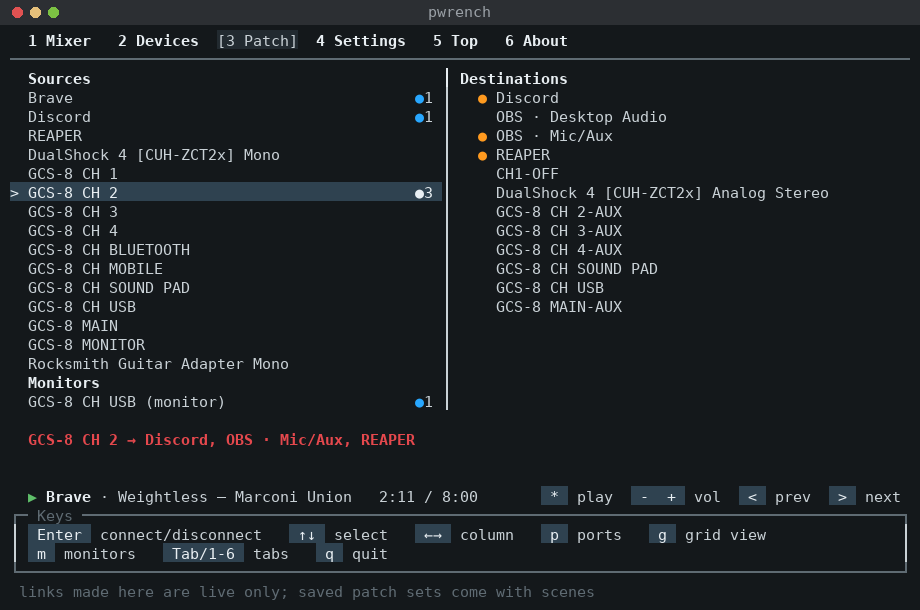
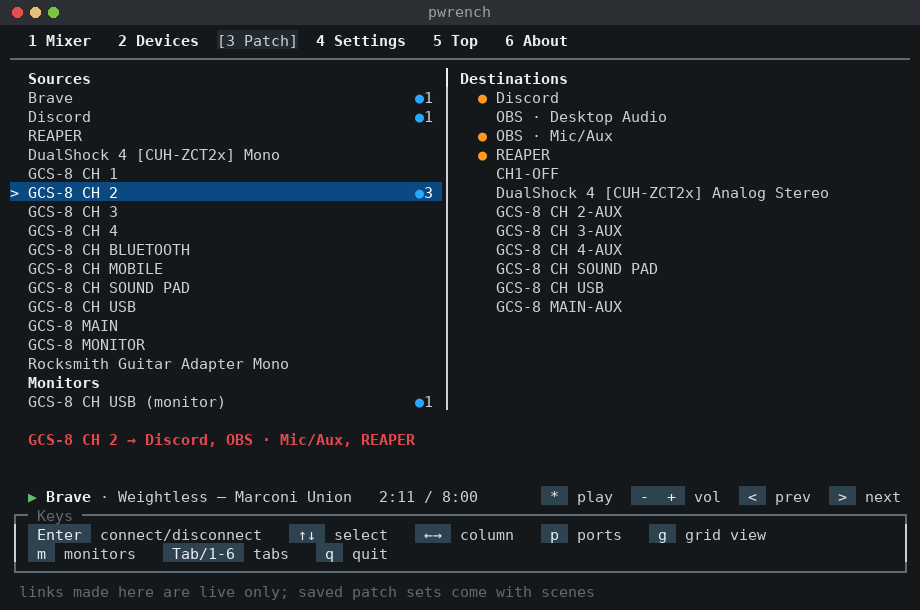
pipeOS: blue bar on sources, orange on destinations; dots keep their colour under a bar; Mixer headings blue/orange

Changed region(s): [[0.0, 0.2803, 0.487, 0.3426]]

diff --git a/pwcore.py b/pwcore.py
@@ -79,7 +79,10 @@ THEMES = {
                      "bar_ok": ("#ffffff", "#6c7a84", ""), "bar_alert": ("#ffffff", "#d62828", ""),
                      "bar_dim": ("#8a9399", "#e1e5e8", ""),
                      "src": ("#0a84ff", None, "bold"), "dst": ("#ff7a00", None, "bold"),
-                     "dst_partial": ("#ff7a00", None, "")},
+                     "dst_partial": ("#ff7a00", None, ""),
+                     "bar_src": ("#0b2540", "#bcdcff", ""), "anchor_src": ("#2b2f33", "#e3efff", ""),
+                     "bar_dst": ("#3a1f00", "#ffd9b3", ""), "anchor_dst": ("#2b2f33", "#fff0e0", ""),
+                     "head_play": ("#0a84ff", None, "bold"), "head_rec": ("#ff7a00", None, "bold")},
     # Dark: Portal 2's moody chambers, dark panels with the portals glowing.
     "pipeos-dark": {"screen": ("#c9d1d6", "#14181b", ""),
                     "normal": (None, None, ""), "dim": ("#5f6b73", None, ""),
@@ -91,7 +94,10 @@ THEMES = {
                     "bar_ok": ("#e8eef2", "#3d5566", ""), "bar_alert": ("#ffffff", "#b3261e", ""),
                     "bar_dim": ("#5f6b73", "#1d2327", ""),
                     "src": ("#28a7ff", None, "bold"), "dst": ("#ff9a1f", None, "bold"),
-                    "dst_partial": ("#ff9a1f", None, "")},
+                    "dst_partial": ("#ff9a1f", None, ""),
+                    "bar_src": ("#ffffff", "#0b4a80", ""), "anchor_src": ("#c9d1d6", "#16283a", ""),
+                    "bar_dst": ("#ffffff", "#7a3d00", ""), "anchor_dst": ("#c9d1d6", "#3a2410", ""),
+                    "head_play": ("#28a7ff", None, "bold"), "head_rec": ("#ff9a1f", None, "bold")},
 }
 
 
@@ -116,10 +122,22 @@ THEMES = {**{k: v for k, v in THEMES.items() if k not in ("vaporware", "pipecraf
           **{name: _pipe_boy(*colours) for name, colours in _PIPE_BOYS.items()},
           "vaporware": THEMES["vaporware"], "pipecraft": THEMES["pipecraft"],
           "pipeos-lite": THEMES["pipeos-lite"], "pipeos-dark": THEMES["pipeos-dark"]}
-for _t in THEMES.values():  # Patch's dots: the theme's ok and pending, unless it sets its own (Portal)
+for _t in THEMES.values():
+    # Patch's dots and bars, and the Mixer's section headings: pipeOS sets its own (portal blue and orange);
+    # every other theme reuses ok/pending, selected/anchor and title, so it looks as it did.
+    _own = "src" in _t
     _t.setdefault("src", _t["ok"])
     _t.setdefault("dst", _t["ok"])
     _t.setdefault("dst_partial", _t["pending"])
+    for _bar, _base in (("bar_src", "selected"), ("bar_dst", "selected"), ("anchor_src", "anchor"),
+                        ("anchor_dst", "anchor")):
+        _t.setdefault(_bar, _t[_base])
+    for _dot, _bar in (("src", "bar_src"), ("src", "anchor_src"), ("dst", "bar_dst"), ("dst", "anchor_dst"),
+                       ("dst_partial", "bar_dst"), ("dst_partial", "anchor_dst")):
+        # a dot under a bar keeps its colour on the bar's background (pipeOS); elsewhere the bar covers it
+        _t[f"{_dot}@{_bar}"] = (_t[_dot][0], _t[_bar][1], _t[_dot][2]) if _own else _t[_bar]
+    _t.setdefault("head_play", _t["title"])
+    _t.setdefault("head_rec", _t["title"])
 THEME_NAMES = list(THEMES)
 THEME_LABELS = {"pipeboy": "Pipe Boy", "pipeboy-amber": "Pipe Boy Amber", "pipeboy-cyan": "Pipe Boy Cyan",
                 "pipeboy-white": "Pipe Boy White", "vaporware": "Vaporware", "pipecraft": "Pipecraft",
@@ -1590,7 +1608,7 @@ def _render_mixer(cv, st, mx, body_h):
     out, n_sel = [], 0
     for kind, section, row in _mixer_lines(mx):
         if kind == "head":
-            out.append((f"  {section}", "title", None))
+            out.append((f"  {section}", "head_play" if section == "Playback" else "head_rec", None))
             continue
         if kind == "sub":
             out.append((f"    {section}", "dim", None))
@@ -1837,7 +1855,7 @@ def _render_patch_cols(cv, st, g, srcs, s, room):
         mark = "> " if j == st.patch_dst and on_dst else "  "
         state = g.state(s, g.dests[j])
         rt = f"{mark}{_STATE_MARK[state].replace('·', ' ')} {_fit(g.dests[j].label, half - 4)}"
-        lit = ("anchor" if menu else "selected") if j == st.patch_dst and on_dst else None
+        lit = ("anchor_dst" if menu else "bar_dst") if j == st.patch_dst and on_dst else None
         right.append((rt, lit, ("patch_dst", j), {"full": "dst", "partial": "dst_partial"}.get(state)))
         if j == st.patch_dst:
             right += menu
@@ -1850,15 +1868,16 @@ def _render_patch_cols(cv, st, g, srcs, s, room):
             count = len(g.targets(srcs[i]))
             mark = "> " if i == st.patch_src and not on_dst else "* " if i == st.patch_src else "  "
             lt = f"{mark}{_fit(srcs[i].label, half - 7):<{half - 7}} {('●' + str(count)) if count else '':>3}"
-            if count:  # the source's dot: blue in Portal; dots go first so a cursor bar still covers them
-                spans.append((lt.index("●"), lt.index("●") + 1, "src"))
-            if i == st.patch_src:  # each bar covers only its own column; the source's stays as the anchor
-                spans.append((0, half, "anchor" if on_dst else "selected"))
+            bar = ("anchor_src" if on_dst else "bar_src") if i == st.patch_src else None
+            if bar:  # each bar covers only its own column; the source's stays as the anchor
+                spans.append((0, half, bar))
+            if count:  # the source's dot, drawn over its bar (src@bar_src) so it keeps its colour
+                spans.append((lt.index("●"), lt.index("●") + 1, f"src@{bar}" if bar else "src"))
         rt, lit, target, dot = (right[n] + (None,))[:4] if n < len(right) else ("", None, None, None)
-        if dot:
-            spans.append((half + 2 + 2, half + 2 + 3, dot))
         if lit:
             spans.append((half + 2, cv.width if target[0] == "patch_dst" else half + 2 + len(rt), lit))
+        if dot:
+            spans.append((half + 2 + 2, half + 2 + 3, f"{dot}@{lit}" if lit in ("bar_dst", "anchor_dst") else dot))
         row = cv.add(f"{lt:<{half}}│ {rt}".ljust(cv.width), ("normal", spans))
         if n < len(left) and left[n] != "head":
             cv.hit(row, 0, half, ("patch_src", left[n]))

diff --git a/tests/test_portal.py b/tests/test_portal.py
@@ -61,10 +61,10 @@ def test_portal_light_is_light_and_portal_dark_is_dark():
 def test_patch_dots_use_source_and_destination_roles():
     lines = patch_lines(patch_side="dst")  # cursor on the destinations, so the source row isn't the active bar
     text, style = next((t, s) for t, s in lines if t.lstrip("> *").startswith("Discord") and "│" in t)
-    assert role_at(style, text.index("●")) in ("src", "anchor")
+    assert role_at(style, text.index("●")) == "src@anchor_src"
     dst_text, dst_style = next((t, s) for t, s in lines if "GCS-8 CH 4-AUX" in t and "│" in t)
     col = dst_text.index("●", dst_text.index("│"))
-    assert role_at(dst_style, col) in ("dst", "selected")
+    assert role_at(dst_style, col) in ("dst", "dst@bar_dst")
     # a destination row that isn't under the cursor shows the dst role itself
     dots = [(t, s) for t, s in lines if "│" in t and "●" in t.split("│")[1]]
     assert any(role_at(s, t.index("●", t.index("│"))) == "dst" for t, s in dots) or len(dots) == 1
@@ -76,11 +76,57 @@ def test_source_dot_is_src_off_the_cursor():
     assert linked and all(role_at(s, t.index("●")) == "src" for t, s in linked)
 
 
-def test_cursor_bar_still_wins_over_a_dot():
+def test_dot_under_a_bar_keeps_its_colour():
+    # Skrappjaw: the dots were white when highlighted; they keep blue/orange on the bar's background
     lines = patch_lines()
     text, style = next((t, s) for t, s in lines if t.startswith("> ") and "│" in t)
-    if "●" in text.split("│")[0]:
-        assert role_at(style, text.index("●")) == "selected"
+    assert "●" in text.split("│")[0]
+    assert role_at(style, text.index("●")) == "src@bar_src"
+    assert role_at(style, 0) == "bar_src"
+    lines = patch_lines(patch_side="dst")
+    text, style = next((t, s) for t, s in lines if "│" in t and "> " in t.split("│")[1])
+    right = text.index("│")
+    assert role_at(style, right + 3) == "bar_dst"
+    if "●" in text[right:]:
+        assert role_at(style, text.index("●", right)) == "dst@bar_dst"
+    src_row = next((t, s) for t, s in lines if t.startswith("* "))
+    assert role_at(src_row[1], 0) == "anchor_src"
+
+
+@pytest.mark.parametrize("name", ["pipeos-lite", "pipeos-dark"])
+def test_pipeos_bars_are_blue_and_orange_and_dots_keep_their_colour(name):
+    t = pc.THEMES[name]
+    r, g, b = pc.hex_rgb(t["bar_src"][1])
+    assert b > r and b > g                         # a blue bar on the sources
+    r, g, b = pc.hex_rgb(t["bar_dst"][1])
+    assert r > g > b                               # an orange bar on the destinations
+    for dot, bar in (("src", "bar_src"), ("src", "anchor_src"), ("dst", "bar_dst"), ("dst", "anchor_dst"),
+                     ("dst_partial", "bar_dst"), ("dst_partial", "anchor_dst")):
+        assert t[f"{dot}@{bar}"][:2] == (t[dot][0], t[bar][1])   # the dot's colour on the bar's background
+
+
+@pytest.mark.parametrize("name", ["dark", "crowbar", "pipecraft"])
+def test_other_themes_bars_and_dots_look_as_before(name):
+    t = pc.THEMES[name]
+    assert t["bar_src"] == t["bar_dst"] == t["selected"] and t["anchor_src"] == t["anchor_dst"] == t["anchor"]
+    assert t["src@bar_src"] == t["selected"] and t["dst@anchor_dst"] == t["anchor"]
+    assert t["head_play"] == t["head_rec"] == t["title"]
+
+
+@pytest.mark.parametrize("name", ["pipeos-lite", "pipeos-dark"])
+def test_pipeos_mixer_headings_blue_playback_orange_recording(name):
+    t = pc.THEMES[name]
+    assert t["head_play"][0] == t["src"][0] and t["head_rec"][0] == t["dst"][0]
+
+
+def test_mixer_headings_use_their_roles():
+    import json as _json
+    import pwinventory as pi
+    inv = pi.inventory(_json.loads((FIX / "pwdump_inventory.json").read_text()))
+    mx = pc.mixer_view(inv, {"version": 2, "clock_rate": None, "buses": [], "labels": {}, "hidden": []}, [])
+    lines = pc.render_screen(pc.UIState(tab="mixer"), {}, None, [], 100, 60, mixer=mx)[0]
+    assert next(s for t, s in lines if t.strip() == "Playback") == "head_play"
+    assert next(s for t, s in lines if t.strip() == "Recording") == "head_rec"
 
 
 def test_placeholder_names_still_load(tmp_path):

diff --git a/tests/test_patch_ui.py b/tests/test_patch_ui.py
@@ -82,15 +82,15 @@ def test_columns_mark_targets_of_selected_source():
 def bars(st, g=G):
     """Every highlight bar in the body as (c0, c1, role); the tab bar's own is left out."""
     return [sp for _, style in screen(st, g=g)[0][1:] if isinstance(style, tuple)
-            for sp in style[1] if sp[2] in ("selected", "anchor")]
+            for sp in style[1] if sp[2] in ("selected", "anchor", "bar_src", "bar_dst", "anchor_src", "anchor_dst")]
 
 
 def test_highlight_covers_only_the_active_column():
     (src,) = bars(at("Discord"))
-    assert src == (0, src[1], "selected") and src[1] < 60  # left column only
+    assert src == (0, src[1], "bar_src") and src[1] < 60  # left column only
     src, dst = bars(at("Discord", "GCS-8 CH 4-AUX", patch_side="dst"))
-    assert src[0] == 0 and src[1] < 60 and src[2] == "anchor"  # the source stays lit, as the anchor
-    assert dst[0] > 40 and dst[1] == 100 and dst[2] == "selected"  # the cursor, right column only
+    assert src[0] == 0 and src[1] < 60 and src[2] == "anchor_src"  # the source stays lit, as the anchor
+    assert dst[0] > 40 and dst[1] == 100 and dst[2] == "bar_dst"  # the cursor, right column only
 
 
 def test_monitors_hidden_until_m():

diff --git a/docs/guide.md b/docs/guide.md
@@ -232,7 +232,8 @@ colours, status shows by style: good is bold, waiting is underlined, and a probl
 ![Pipecraft](guide/about-pipecraft.png)
 
 **pipeOS-lite** (a clean test chamber) and **pipeOS-dark** (Portal 2's moody chambers) colour Patch's dots
-like portals: blue on the sources, orange on the destinations.
+like portals: blue on the sources, orange on the destinations, with a blue cursor bar on the sources and
+an orange one on the destinations. On the Mixer, Playback is blue and Recording orange.
 
 ![pipeOS-dark](guide/patch-portal.png)
 
